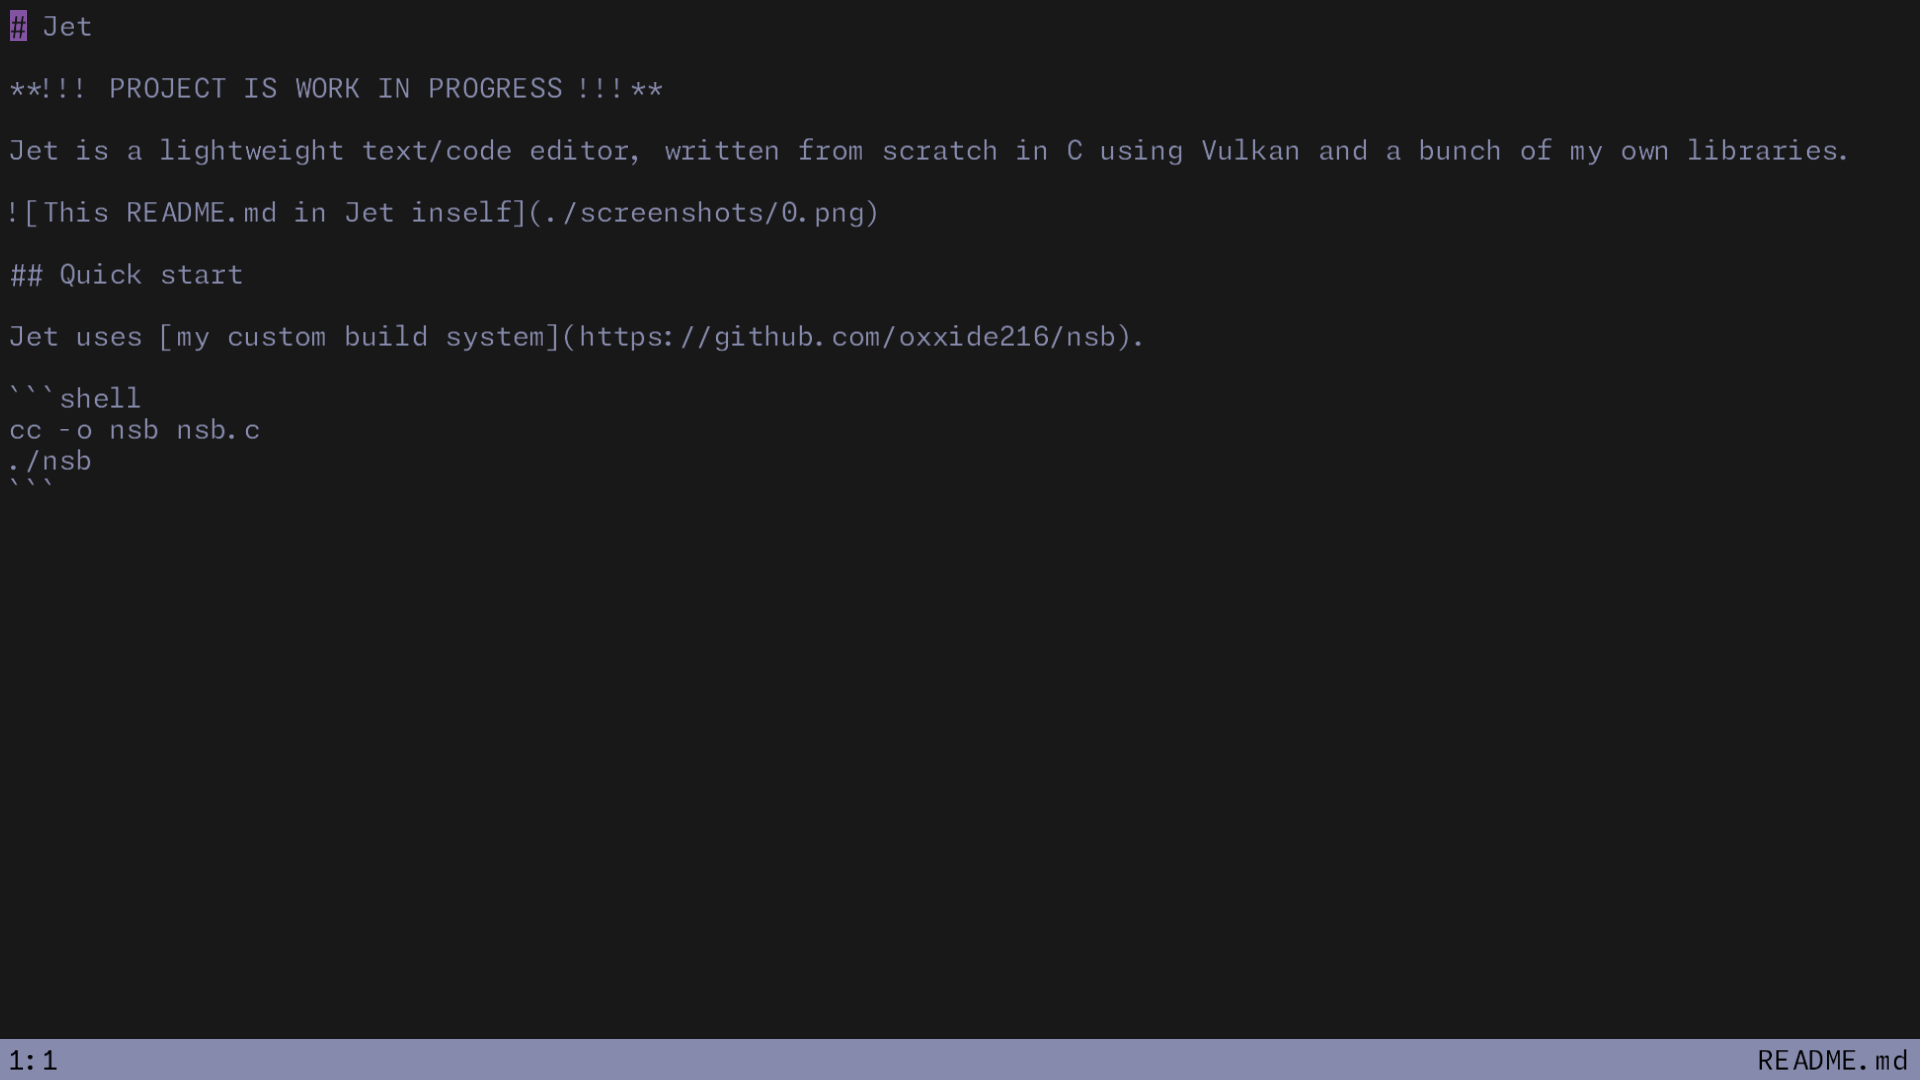
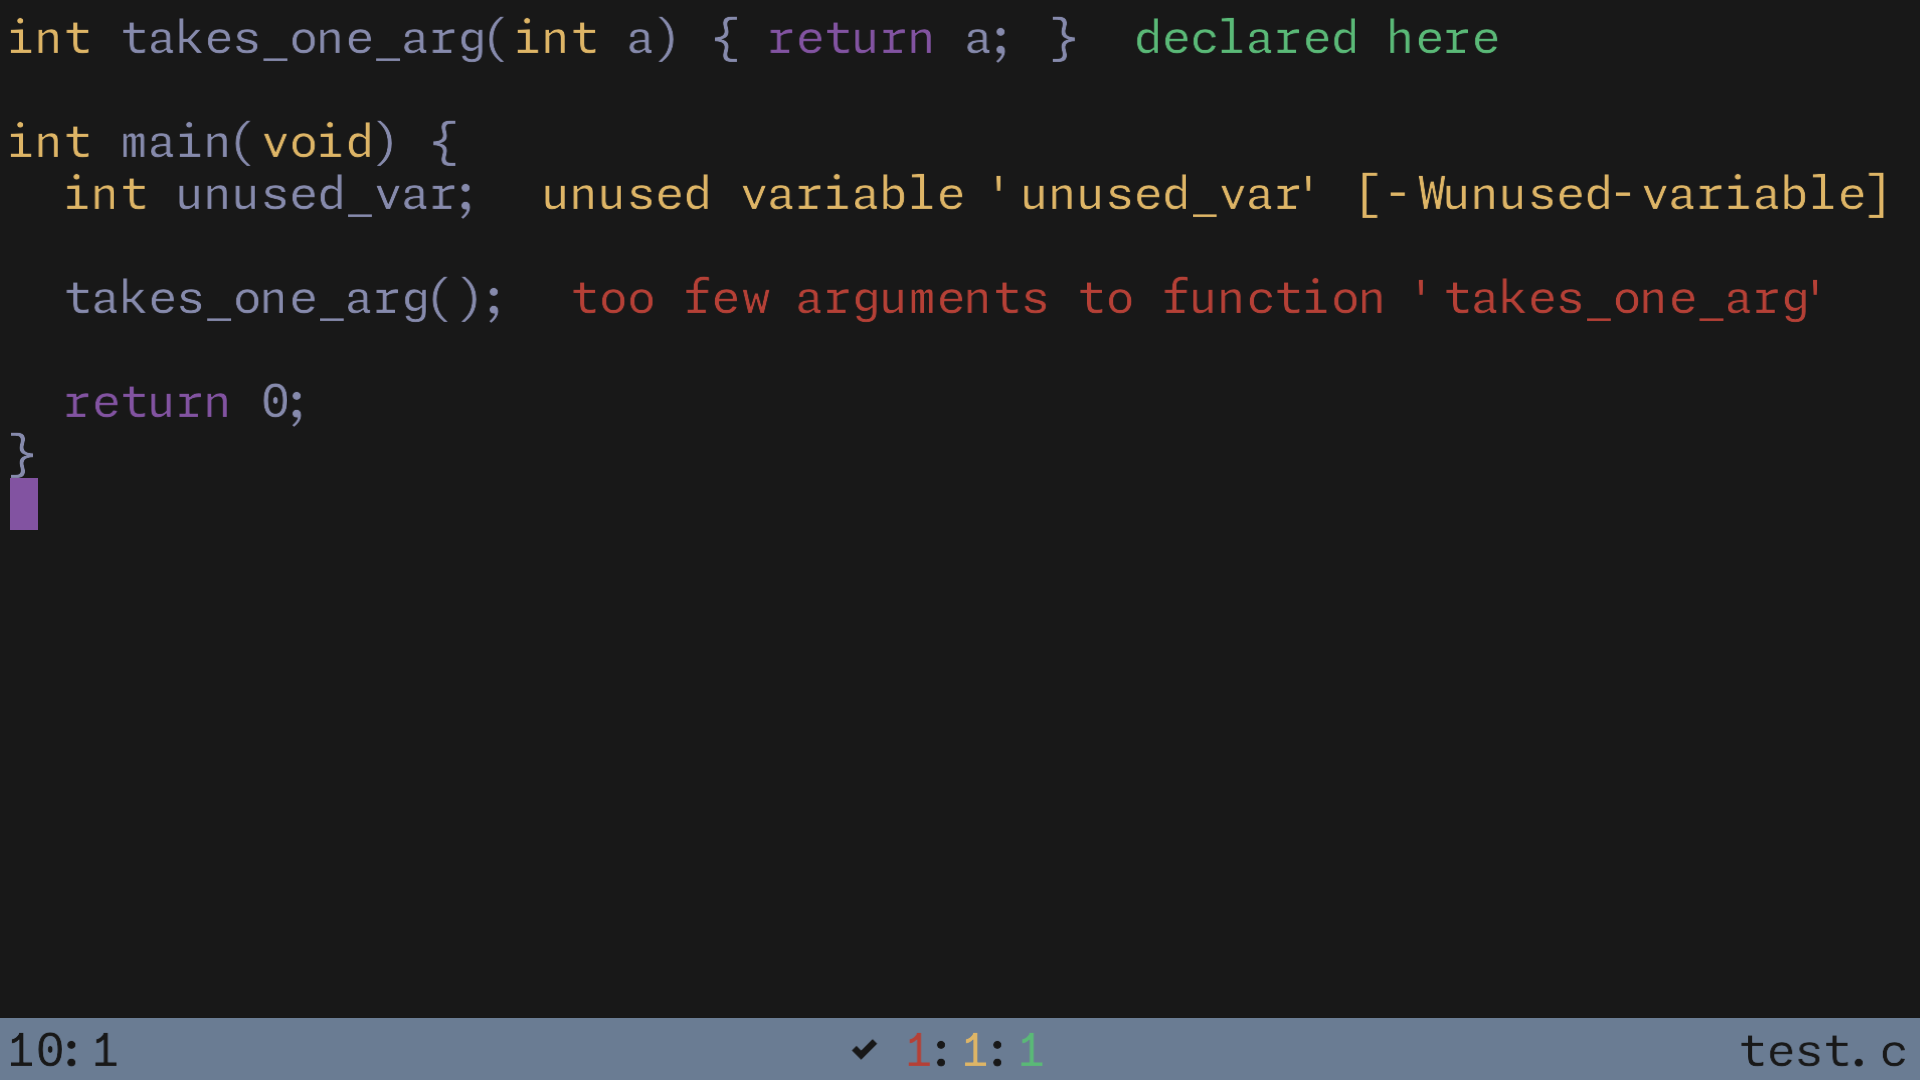
Updated README.md and screenshot to include new Jet features

diff --git a/README.md b/README.md
@@ -4,7 +4,7 @@
 
 Jet is a lightweight text/code editor, written from scratch in C using Vulkan and a bunch of my own libraries.
 
-![This README.md in Jet inself](./screenshots/0.png)
+![Test C file opened in Jet](./screenshots/0.png)
 
 ## Advanced features
 
@@ -12,6 +12,7 @@ Apart from basic editing features, jwrap has these additional ones:
 
 - jwrap: after launching Jet, run jwrap with your compilation command. Jet will get all errors/warnings/infos, display them in a separate menu and inline. On save - automatic re-run.
 - Autocompletion: collects words from all open buffers, dynamically updates, works fine on a file with 36938 lines of code and many prefix duplications.
+- Incremental syntax highlighting: fast and easily extendable (but right now only for C)
 
 ## Quick start
 
